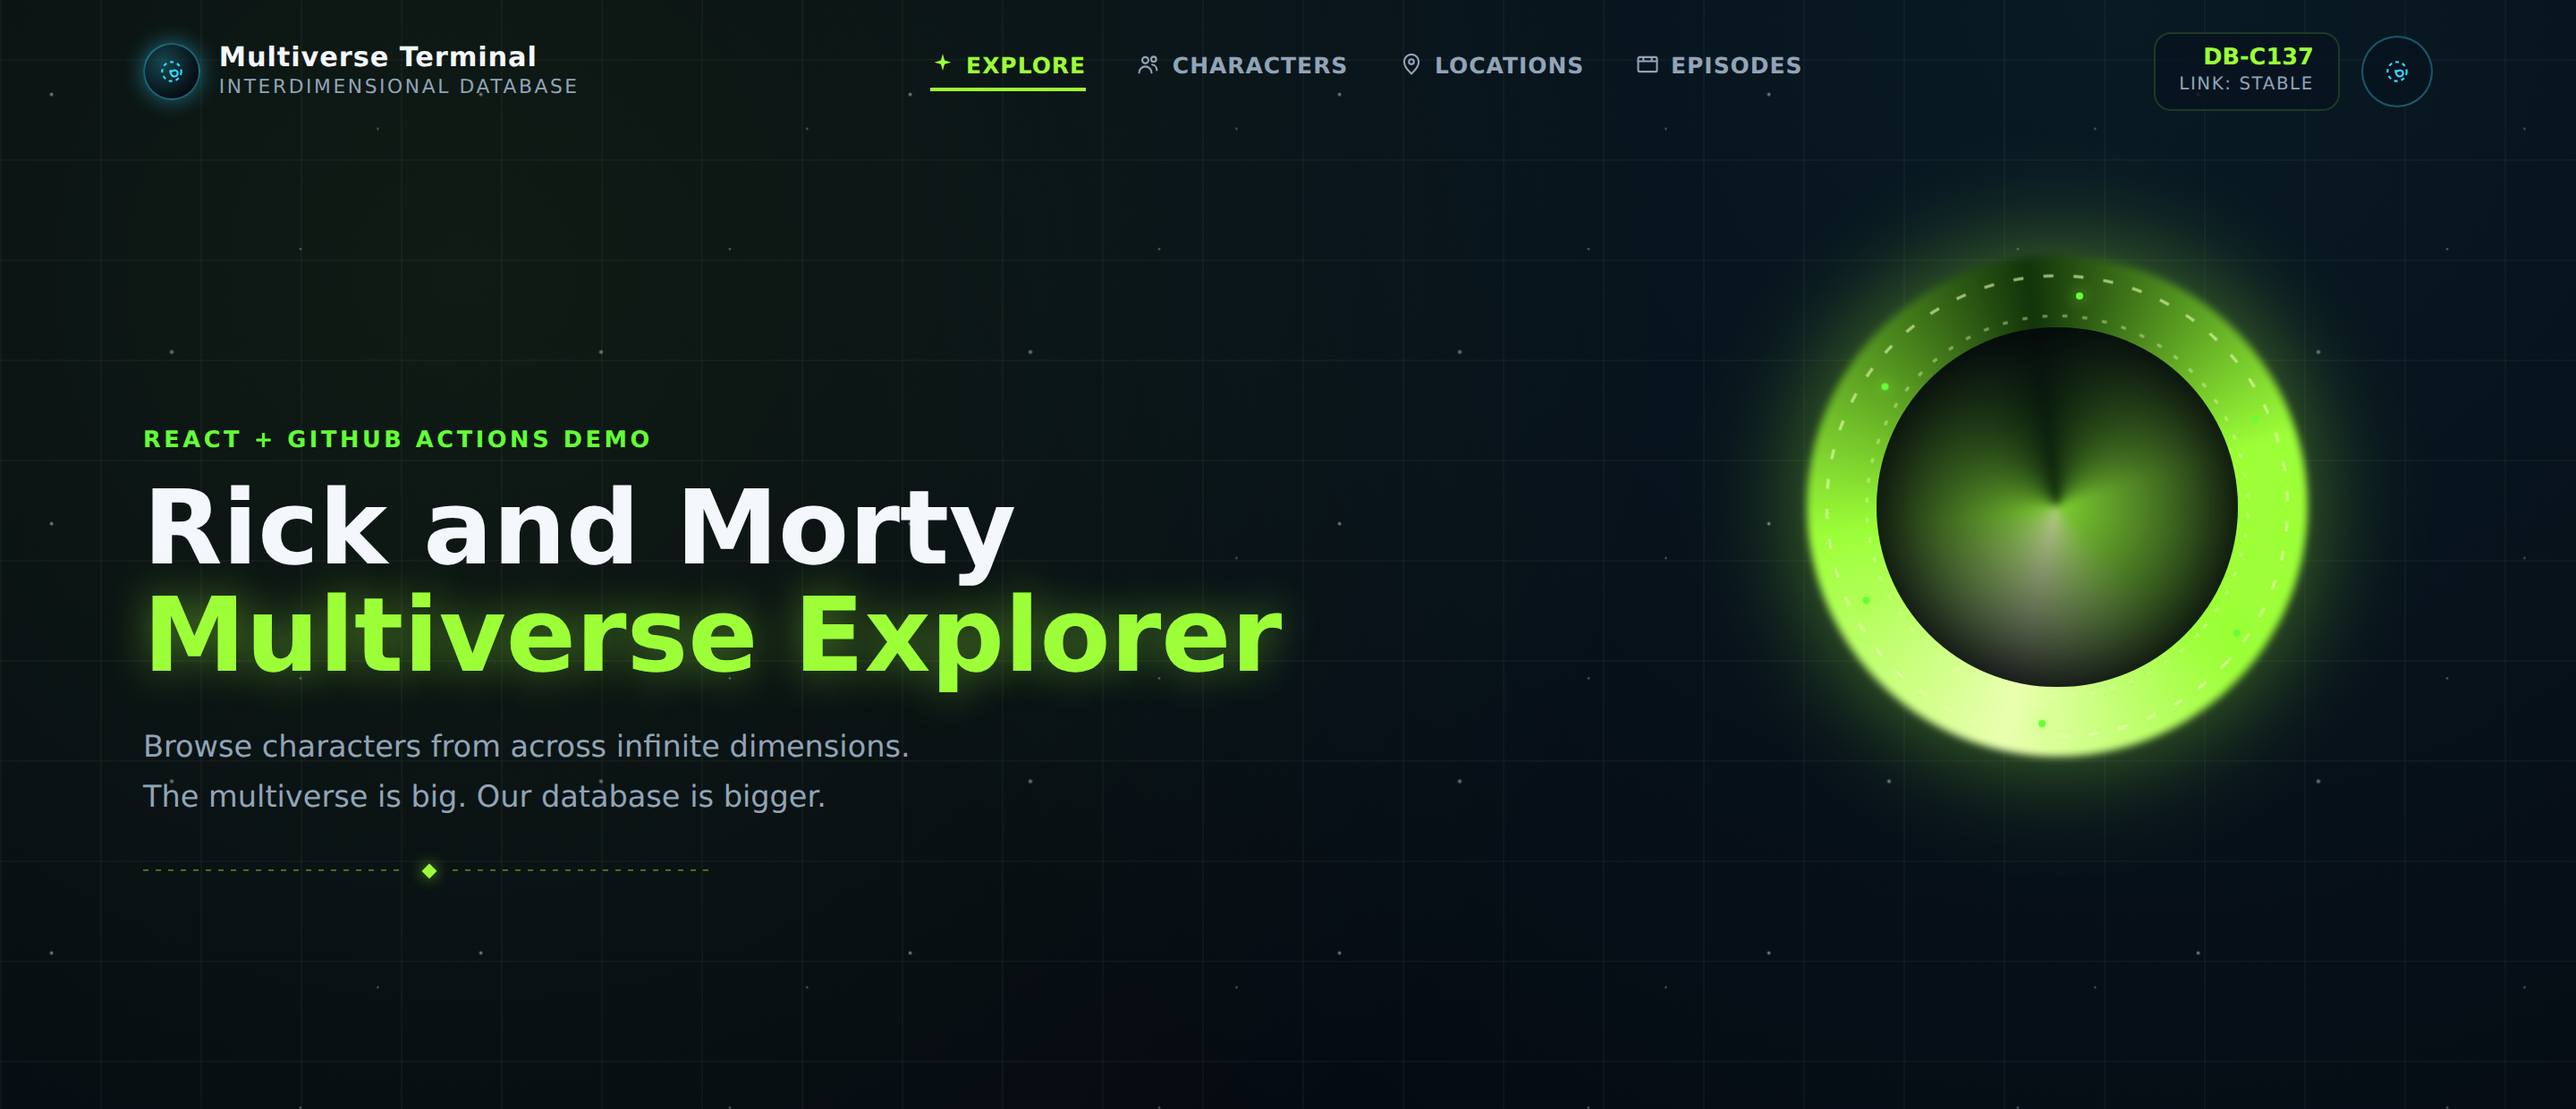
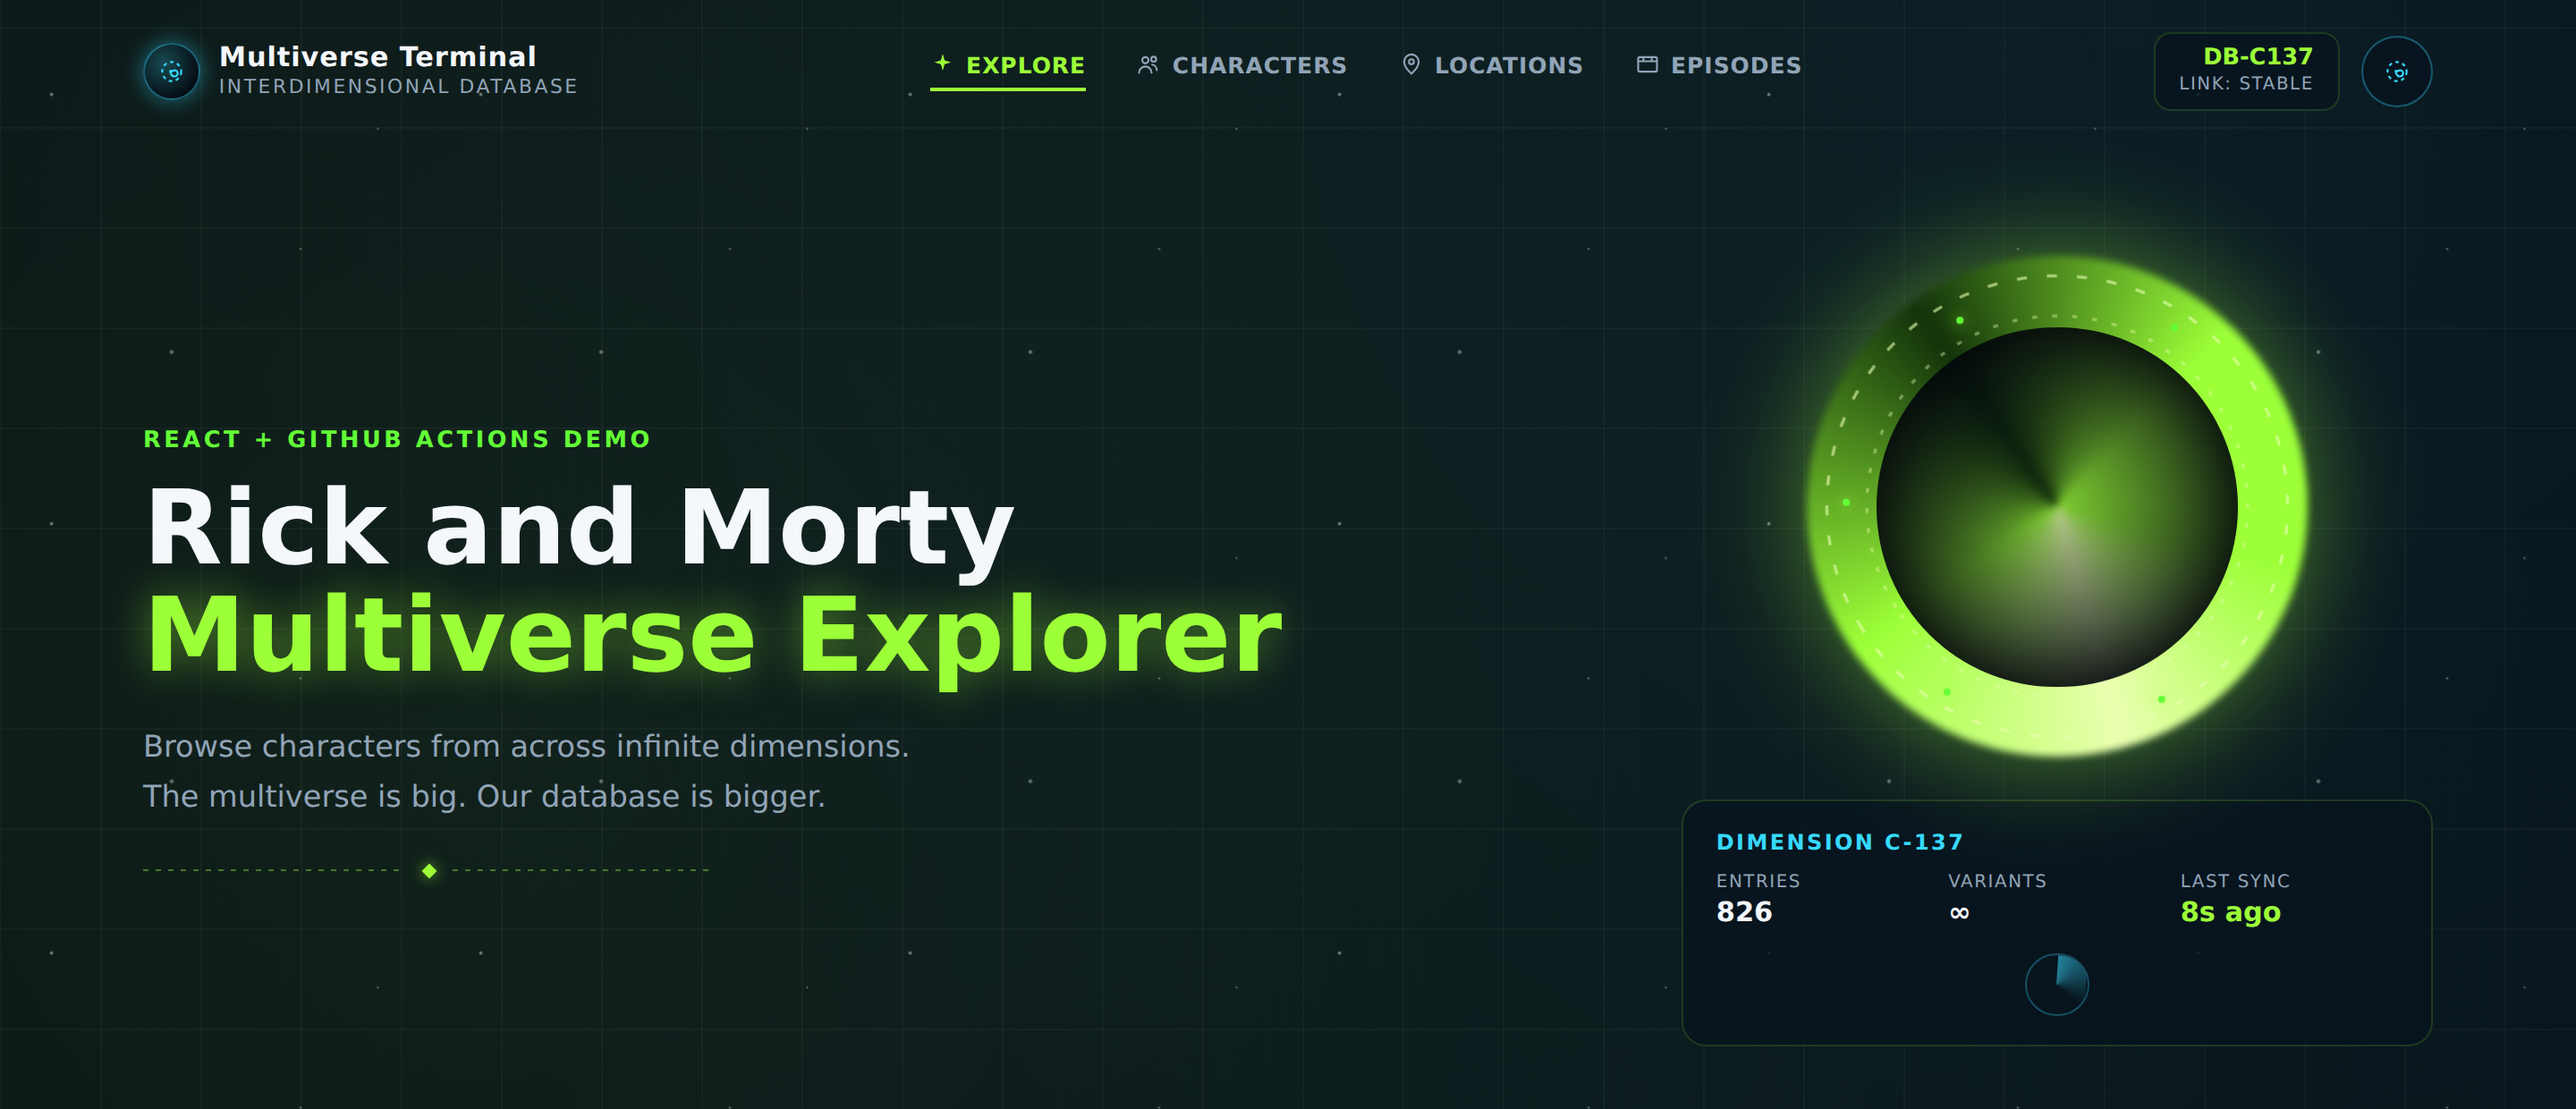
Add screenshots with live API data to the Docker deployment post
Replaces the offline hero capture with one showing real HUD stats and
adds the characters grid, character detail modal and episodes view.

Claude-Session: https://claude.ai/code/session_01VBF1AAruoaTqTABxq6XUPW

diff --git a/src/content/blog/github-actions-docker-container-apps.md b/src/content/blog/github-actions-docker-container-apps.md
@@ -17,6 +17,16 @@ You can check all the code in my GitHub repository: [react-github-actions-demo](
 
 The app itself is a small React + TypeScript + Vite application that consumes the public [Rick and Morty API](https://rickandmortyapi.com/) and lets you browse characters, locations and episodes. It is intentionally simple, because the interesting part today is everything that happens **after** you press push.
 
+![Characters grid showing Rick, Morty, Summer, Beth and Jerry with their status pills](/img/GitHubActionsDocker/characters.png)
+
+Every card opens a detail panel with the data coming from the API:
+
+![Character detail modal for Rick Sanchez showing status, species, gender, origin, location and episode count](/img/GitHubActionsDocker/character-modal.png)
+
+And the episodes view groups every transmission by season:
+
+![Episodes view listing season 1 episodes with air dates and detected character counts](/img/GitHubActionsDocker/episodes.png)
+
 The app even renders its own pipeline on the landing page, so you can see the whole trip at a glance:
 
 ![Deployment pipeline: React build, GitHub Actions, Docker image, GHCR and Azure Container Apps](/img/GitHubActionsDocker/pipeline.png)
